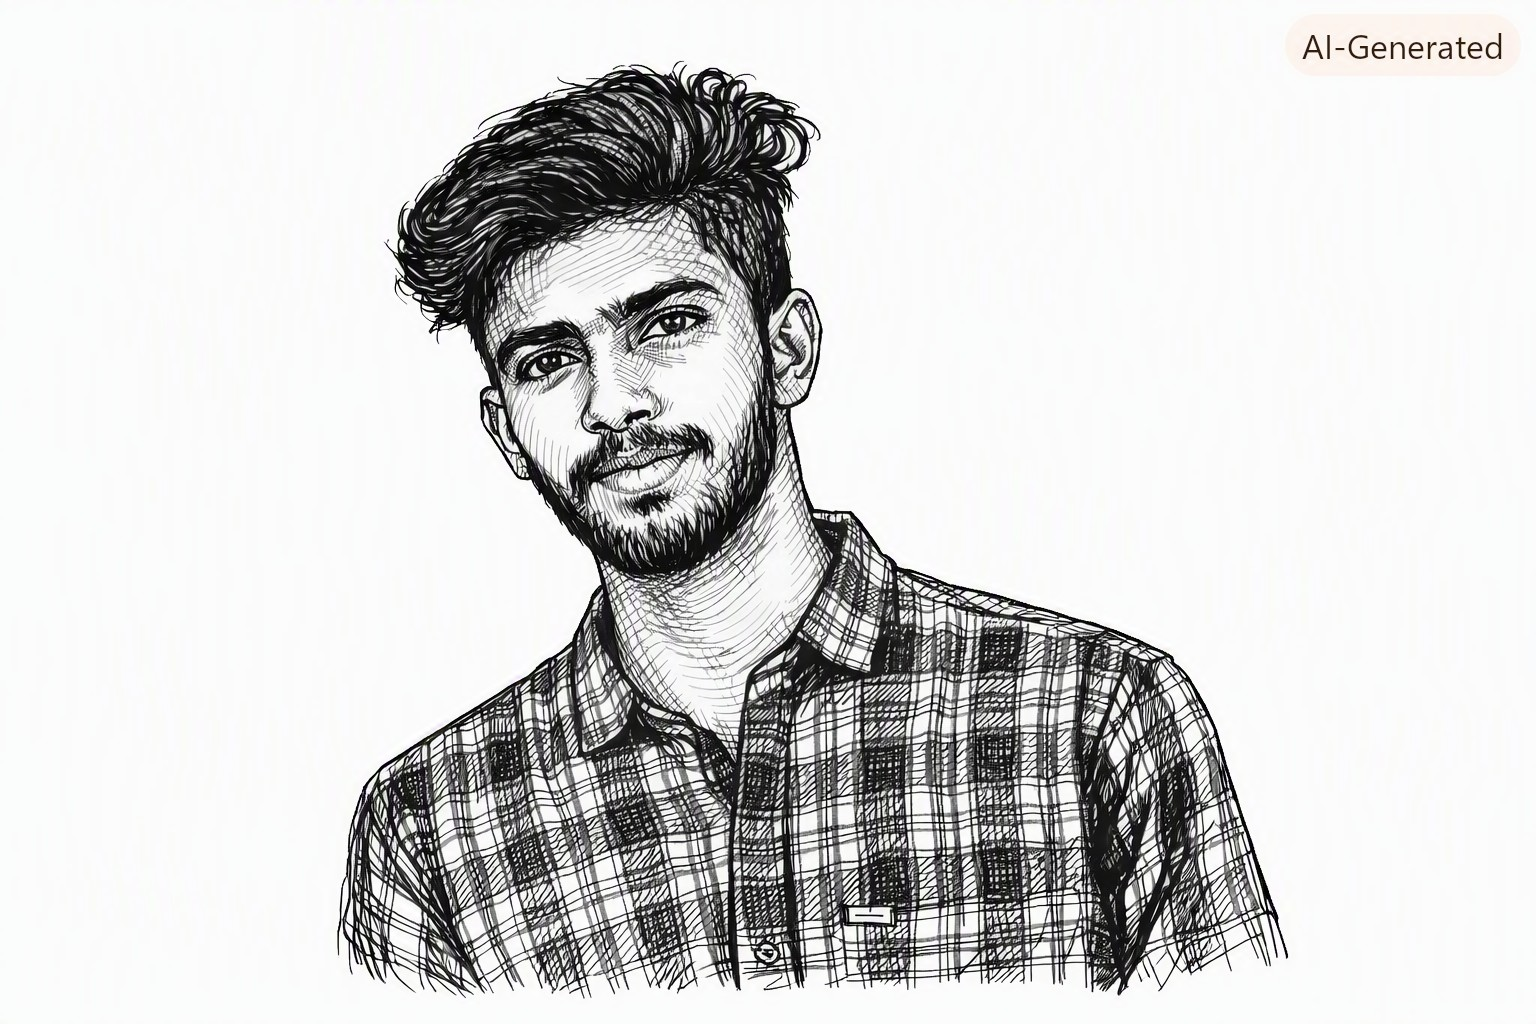
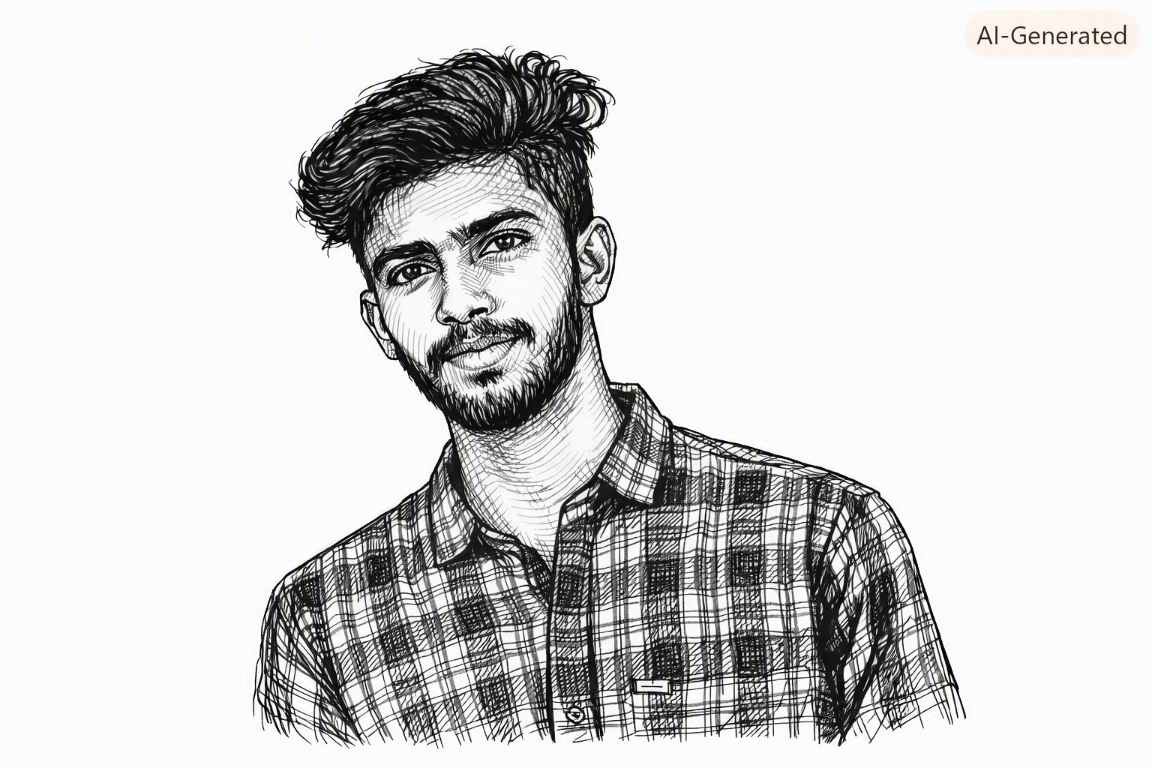
imge change

diff --git a/src/blog/reading-ritual.md b/src/blog/reading-ritual.md
@@ -6,7 +6,7 @@ author: Your Name
 category: Parenting Reading Tips
 tags: [parents, reading habits, beginner readers]
 description: Five small, realistic ways to make room for books in a full family week.
-image: /assets/author.jpg
+image: /assets/author.png
 imageAlt: A warm illustrated reading corner with books and a quiet window
 ---
 Reading does not need a perfect corner, a long list, or an hour of silence. A small, repeatable moment is enough to help a child connect books with comfort.

diff --git a/src/blog/mythology-for-young-readers.md b/src/blog/mythology-for-young-readers.md
@@ -6,7 +6,7 @@ author: Your Name
 category: Indian Mythology
 tags: [Indian mythology, family reading, stories]
 description: How to share mythological stories with curiosity, context, and a child’s sense of wonder.
-image: /assets/author.jpg
+image: /assets/author.png
 imageAlt: Illustrated open book with a soft leafy background
 ---
 Indian mythology carries remarkable characters, questions, and images. For young readers, the best beginning is often a story rather than a lesson.

diff --git a/src/blog/choosing-beginner-books.md b/src/blog/choosing-beginner-books.md
@@ -6,7 +6,7 @@ author: Your Name
 category: Educational Guides
 tags: [beginner readers, book recommendations, learning]
 description: A simple checklist for choosing books that help new readers feel capable and excited.
-image: /assets/author.jpg
+image: /assets/author.png
 imageAlt: Illustrated stack of children's books ready to be read
 ---
 A beginner reader needs books that feel possible—and interesting enough to return to tomorrow.
